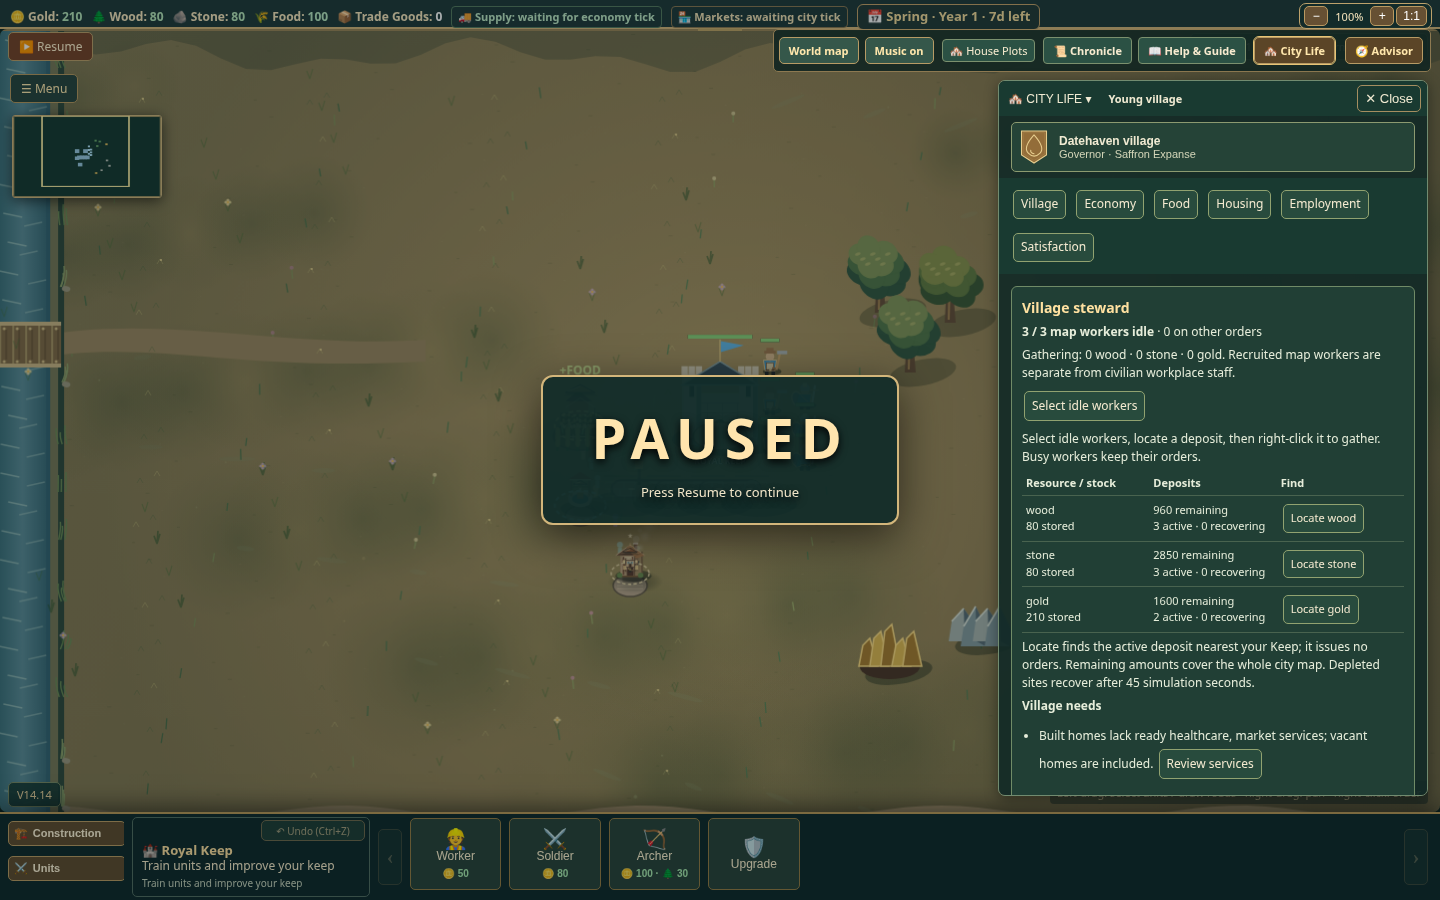
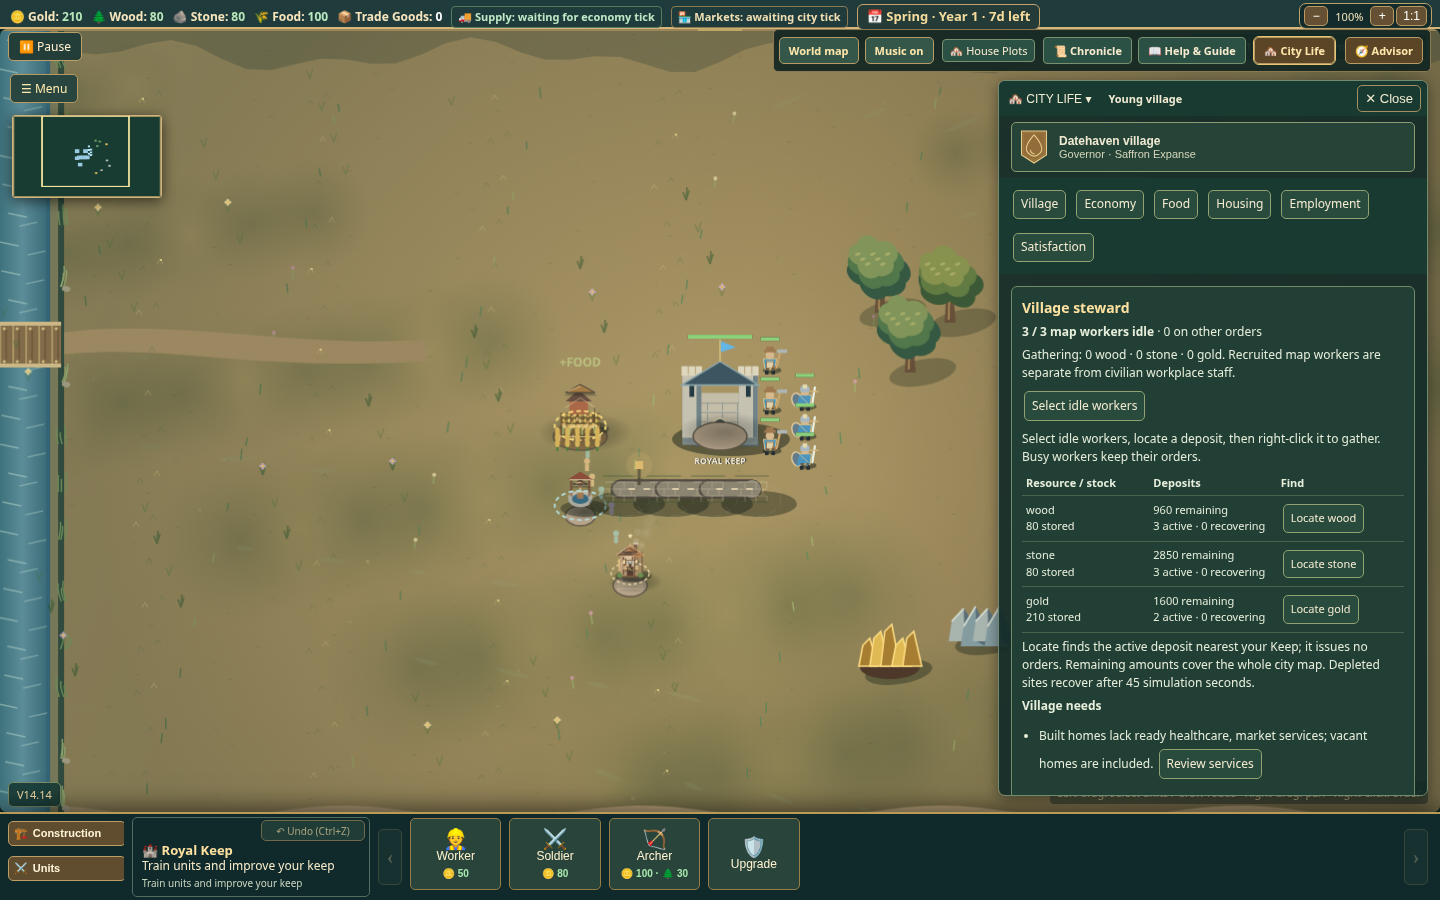
fix: allow native atlas keyboard panning without city shortcuts

diff --git a/index.html b/index.html
@@ -181,7 +181,7 @@ window.addEventListener('keydown',e=>{
   if(!allowed)e.preventDefault();e.stopImmediatePropagation();return;
  }
  if(!document.getElementById('scKingdomPanel')?.open)return;
- if(e.key==='Escape'){e.preventDefault();e.stopImmediatePropagation();window.scKingdomUI?.close();}else if(!['Tab','Enter',' '].includes(e.key)){e.preventDefault();e.stopImmediatePropagation();}
+ if(e.key==='Escape'){e.preventDefault();e.stopImmediatePropagation();window.scKingdomUI?.close();}else if(!['Tab','Enter',' '].includes(e.key)){const mapScroll=e.target instanceof Element&&e.target.closest('#scContinentMap')&&['ArrowLeft','ArrowRight','ArrowUp','ArrowDown','Home','End','PageUp','PageDown'].includes(e.key);if(!mapScroll)e.preventDefault();e.stopImmediatePropagation();}
 },true);
 </script>
 <script>

diff --git a/docs/validation/m18-verification.md b/docs/validation/m18-verification.md
@@ -5,3 +5,7 @@ Base: merged M17 `46d318857386a2da0df917a6e5479356648d1740`; post-merge run `420
 Targeted local evidence: 23 browser cases passed for origin/save/chooser journeys, deterministic geography, phone/desktop map controls, default/optional audio, painters and City Life focus/hit tests. Subsequent focused cases verify corrected five-start availability text, the optional audio mix and six actual economy cycles per new origin. Local browser: Chromium 154.0.8037.57, Playwright 1.57.0, Node 24.19.0. CI uses the lockfile-pinned Chromium build.
 
 Full regression and packaged smoke results are recorded below once complete. The PR will link exact-head CI, screenshots and the verified-site candidate. No merge/deployment is performed by this verification.
+
+Fresh review found one Important issue: the existing atlas key guard blocked native continent-map panning. The new real-scrolling assertion failed at 390 and 1440 before the fix and passed at both widths afterward. The guard now permits native scroll keys only within the continent viewport while stopping game input propagation. No Critical or other concrete Important findings remained. Musical aesthetics and longer-term balance are reserved for owner playtesting.
+
+Additional local evidence: all ten governor cases passed, including thirty simulated seconds of real food production for every new origin; map/audio checks passed 6/6; an exact-source package at `5e4d924` passed all five packaged smoke journeys. The full suite initially caught an obsolete two-start wording assertion; it was updated to explicitly require five playable homes, and the title journey then passed. Final candidate/CI results in the PR supersede these intermediate commit references.
